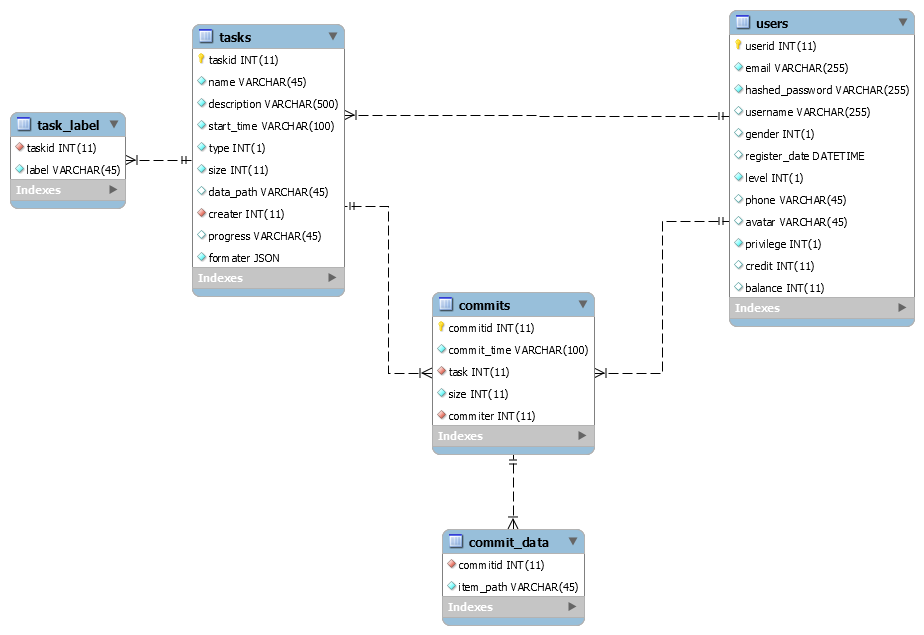
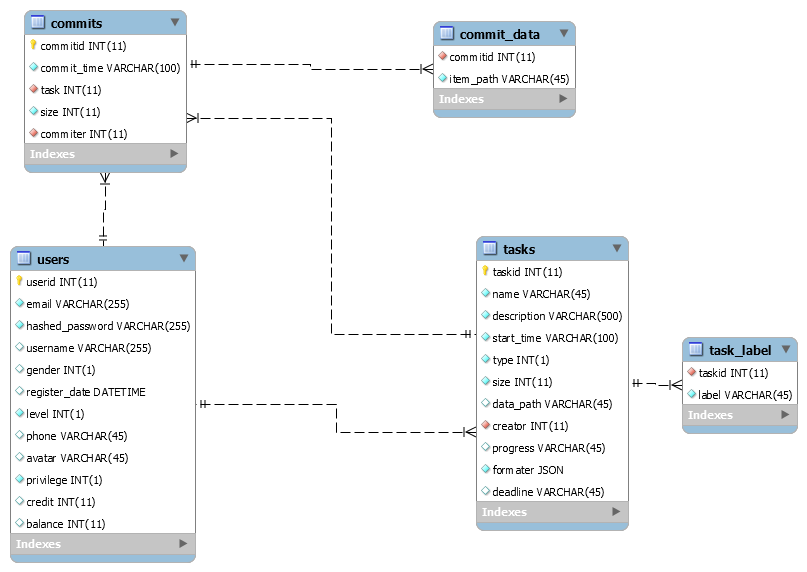
update database design : add column tasks.deadline update task api: add deadline

diff --git a/软件架构/微聚API设计.md b/软件架构/微聚API设计.md
@@ -725,8 +725,8 @@ TODO: XML standard (URL of pictures,task labels)
 
           },
           "title": "xxx",
-          "start": "xxxx",
-          "end": "xxx",
+          "start_time": "xxxx",
+          "deadline": "xxx",
           "descriptions": "xxx"
       }
   }
@@ -816,6 +816,7 @@ GET /aop/v1/tasks?limit=10
           "creator":0,
           "progress":20,
           "pictures":["url1","url2"],
+          "deadline": "xxx",
           "formater":{}
       }
     ]
@@ -866,6 +867,7 @@ meta 如果"offset=10"中加"prev":"...&offset=0"
           "creator":0,
           "progress":20,
           "pictures":["url1","url2"],
+          "deadline": "xxx",
           "formater":{}
       }
   }
@@ -948,6 +950,7 @@ meta 如果"offset=10"中加"prev":"...&offset=0"
         "data_path":"xxx",
         "creator":0,
         "progress":20,
+        "deadline": "xxx",
         "formater":{}
     }
 }
